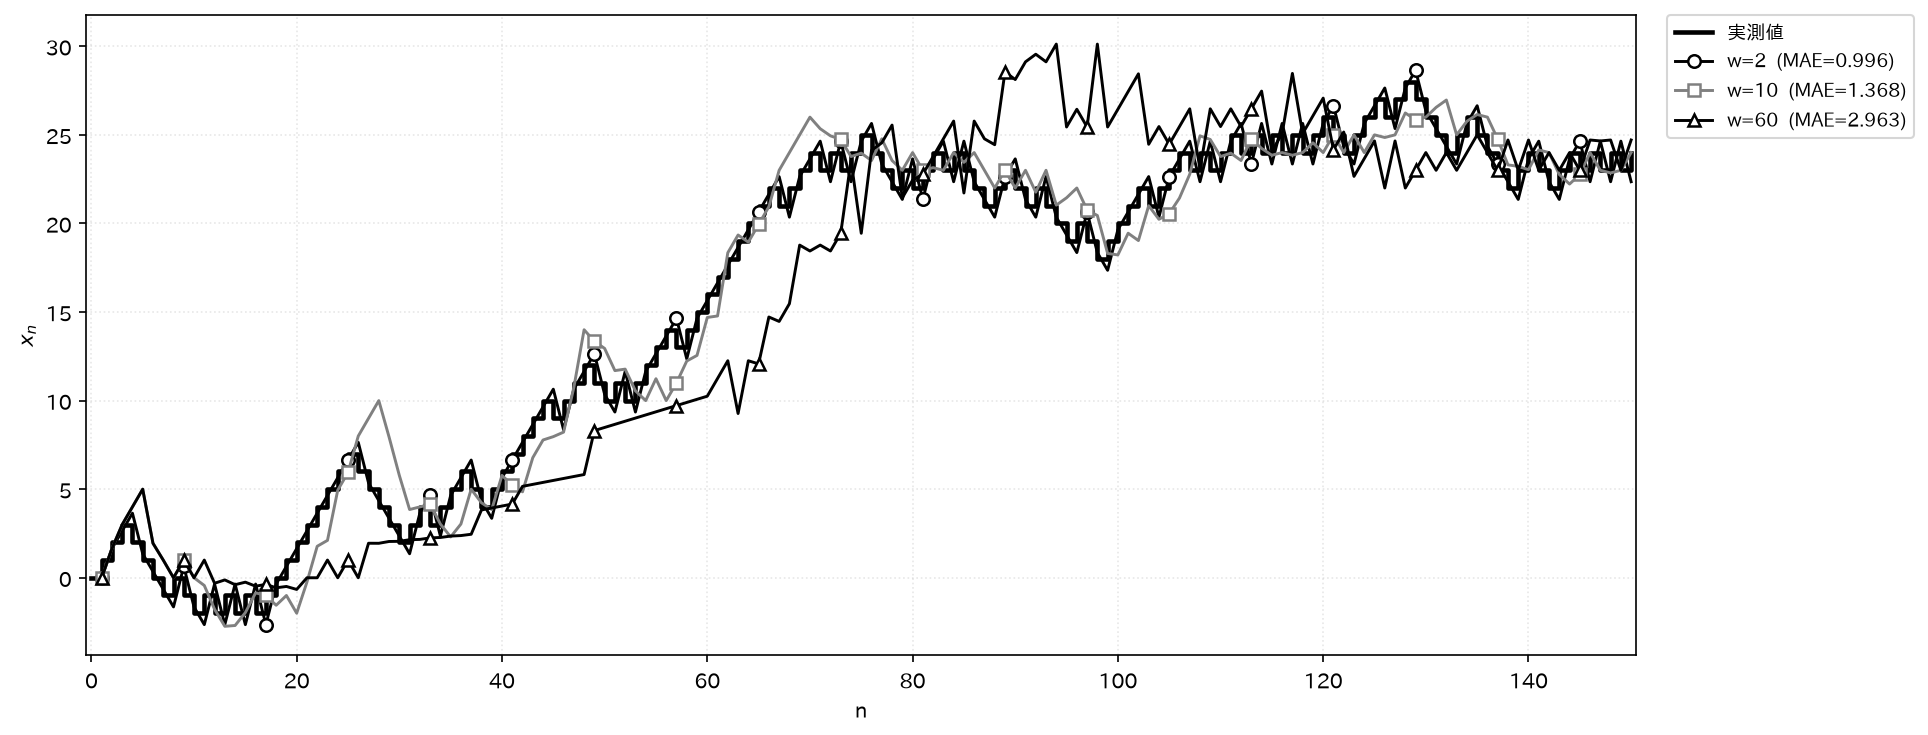
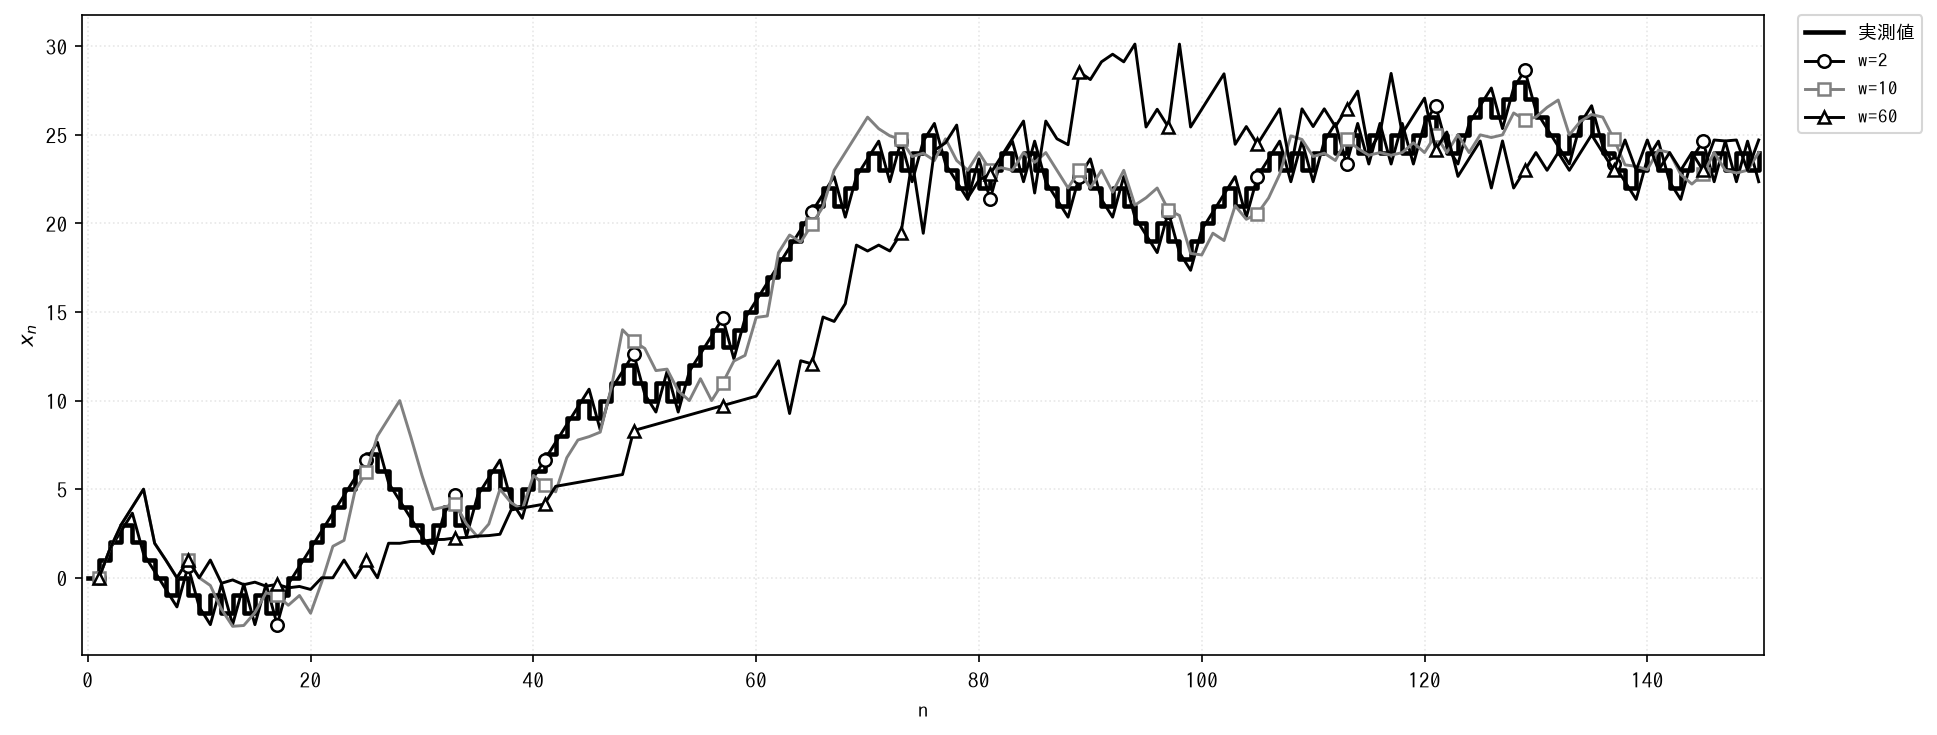
Regenerate pattern figures (W=2,10,60) and add HIT to pattern summary
Re-run the four synthetic pattern experiments (seed=0, N=150) with
W=2,10,60; MAE values reproduce the existing table exactly. Figures are
regenerated without in-figure metrics per the log-only policy. Add HIT
columns to tab:pattern_summary and note that HIT stays around 0.5
(only up2down at W=2 clearly exceeds it), with W=2's low MAE coming
from shrunken prediction steps rather than reliable direction calls.

Claude-Session: https://claude.ai/code/session_01C4nmXaNakoSJn4tYDbLeWh

diff --git a/docs/thesis/main.tex b/docs/thesis/main.tex
@@ -1239,7 +1239,7 @@ $P(\text{上昇})=0.5-0.09\,(x_n-x_{\mathrm{a}})$
 2 つの局面からなるパターンは，前半と後半で局面を切り替える。
 
 各パターンについて $W=2,\,10,\,60$ の予測を実測値と同一図に重ねて示し，
-各区間の MAE を表\,\ref{tab:pattern_summary} にまとめる。
+各区間の MAE と方向的中率 HIT を表\,\ref{tab:pattern_summary} にまとめる。
 
 \subsubsection*{上昇継続}
 図\,\ref{fig:pat_uptrend} に示す。
@@ -1292,16 +1292,26 @@ MAE は $0.892$ と4パターン中で最小であった。
 \end{figure}
 
 \begin{table}[H]\centering
-  \caption{各パターン・各参照期間の MAE（合成データ，$N=150$）}
+  \caption{各パターン・各参照期間の MAE と方向的中率 HIT（合成データ，$N=150$）}
   \label{tab:pattern_summary}
-  \begin{tabular}{l|ccc}\hline
-    パターン & $W=2$ & $W=10$ & $W=60$ \\\hline
-    上昇継続     & 0.996 & 1.407 & 4.247 \\
-    レンジ→上昇 & 1.082 & 1.124 & 2.442 \\
-    上昇→レンジ & 0.996 & 1.368 & 2.963 \\
-    上昇→下降   & 0.892 & 1.485 & 4.876 \\\hline
+  \begin{tabular}{l|ccc|ccc}\hline
+    & \multicolumn{3}{c|}{MAE} & \multicolumn{3}{c}{HIT} \\
+    パターン & $W=2$ & $W=10$ & $W=60$ & $W=2$ & $W=10$ & $W=60$ \\\hline
+    上昇継続     & 0.996 & 1.407 & 4.247 & 0.503 & 0.443 & 0.369 \\
+    レンジ→上昇 & 1.082 & 1.124 & 2.442 & 0.436 & 0.524 & 0.497 \\
+    上昇→レンジ & 0.996 & 1.368 & 2.963 & 0.503 & 0.443 & 0.470 \\
+    上昇→下降   & 0.892 & 1.485 & 4.876 & 0.584 & 0.463 & 0.403 \\\hline
   \end{tabular}
 \end{table}
+
+方向的中率 HIT は，全体として $0.5$ 前後にとどまった。
+$0.5$ を明確に上回ったのは上昇→下降の $W=2$（$0.584$）のみであり，
+$W=60$ は 4 パターンのすべてで $0.5$ を下回った（$0.369$〜$0.497$）。
+MAE では基準値 $1$ を下回る $W=2$ でも方向的中率はコイン投げと
+同程度にとどまる場合があることは，
+小さい $W$ の予測が方向を確実に当てているのではなく，
+予測の変化幅を小さく抑えることで外れたときの誤差を
+小さくしていることを示している（この機構は第8章で述べる）。
 
 \subsection{まとめ}
 
@@ -1329,6 +1339,8 @@ MAE・計算時間とも $W$ を大きくするほど概ね増加した。
 上昇継続でも押しを挟む箇所で大きい $W$ の上振れが蓄積した。
 一方，方向の持続が乏しいレンジ主体の局面では小さい $W$ の優位は縮み，
 $W=2$ と $W=10$ がほぼ同等となった。
+方向的中率 HIT も $W$ とともに概ね低下し，
+$0.5$ を明確に上回ったのは転換を含む上昇→下降の $W=2$ のみであった。
 したがって，感度分析で観測された「$W$ が大きいほど誤差が大きい」という単調な傾向は，
 主として経路が曲がる箇所（転換や押し）における追従の遅れが
 $W$ とともに長引くことに由来すると整理できる。
